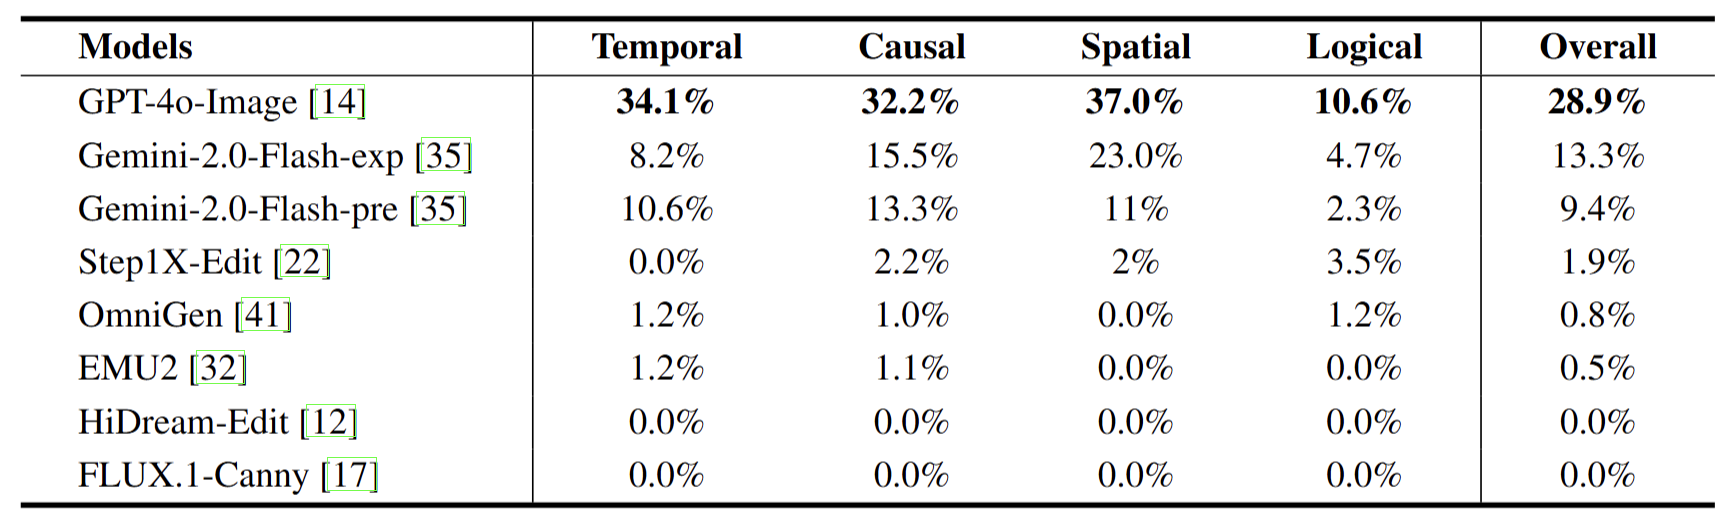
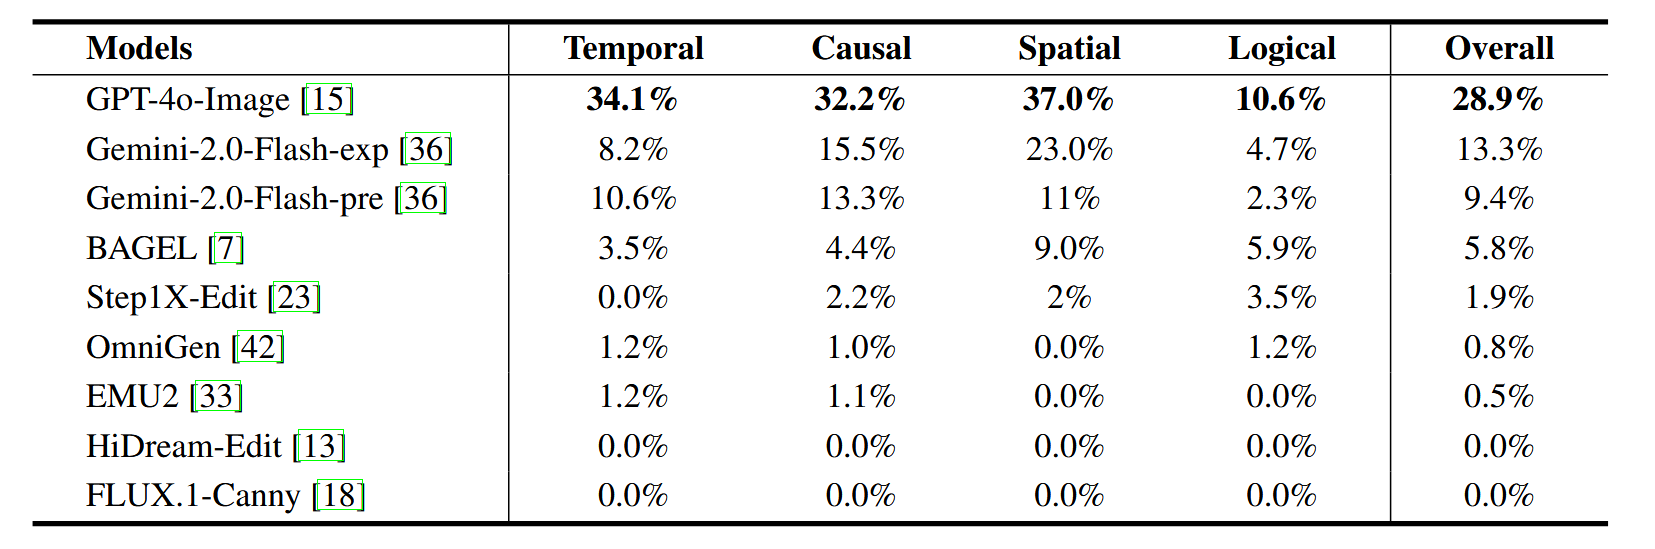
modify readme and score metric name

Changed region(s): [[0.0, 0.0305, 1.0, 0.9771], [0.4931, 0.2443, 0.5547, 0.855]]

diff --git a/gpt_eval.py b/gpt_eval.py
@@ -9,9 +9,10 @@ import re
 from utils import *
 
 
-api_key = 'YOUR_API_KEY'
-api_base = 'YOUR_API_BASE'
-
+# api_key = 'YOUR_API_KEY'
+# api_base = 'YOUR_API_BASE'
+api_key = 'sk-xFs6jVvnRZzjmiAx8b2184BfBc2840DaA28944FcAf3d5a82'
+api_base = 'http://172.30.16.79:6260/v1/chat/completions'
 
 subtask_dic = {
     "Temp": [
@@ -288,12 +289,12 @@ def extract(answer):
 def calculate_score(row):
     if row['category'] in ['temporal_reasoning', 'causal_reasoning', 'spatial_reasoning']:
         if 'consistency_free' in row and row['consistency_free']:
-            score = 0.2 * row['GenerationQuality'] + 0.8 * row['Reasoning']
+            score = 0.2 * row['VisualPlausibility'] + 0.8 * row['Reasoning']
         else:
-            score = 0.3 * row['ImageConsistency'] + 0.5 * row['Reasoning'] + 0.2 * row['GenerationQuality']
+            score = 0.3 * row['ApprConsistency'] + 0.5 * row['Reasoning'] + 0.2 * row['VisualPlausibility']
         
     elif row['category'] == 'logical_reasoning':
-        score = 0.3 * row['ImageConsistency'] + 0.7 * row['Reasoning']
+        score = 0.3 * row['ApprConsistency'] + 0.7 * row['Reasoning']
     if row['Reasoning'] == 1:
         score = score * 0.5
         score = 1 if score<1 else score
@@ -303,12 +304,12 @@ def calculate_completion(row):
     if row['category'] in ['temporal_reasoning', 'causal_reasoning', 'spatial_reasoning']:
         return (
             1
-            if row['ImageConsistency'] == 5 and row['Reasoning'] == 5 and row['GenerationQuality'] == 5
+            if row['ApprConsistency'] == 5 and row['Reasoning'] == 5 and row['VisualPlausibility'] == 5
             else 0
         )
     elif row['category']=='logical_reasoning':
         return (
-            1 if row['ImageConsistency'] == 5 and row['Reasoning'] == 5 else 0
+            1 if row['ApprConsistency'] == 5 and row['Reasoning'] == 5 else 0
         )
 
 
@@ -452,8 +453,8 @@ def main():
             match_log.append('failed')
     # breakpoint()
     data['Reasoning'] = reasoning
-    data['ImageConsistency'] = img_consist
-    data['GenerationQuality'] = gen_quality
+    data['ApprConsistency'] = img_consist
+    data['VisualPlausibility'] = gen_quality
     data['match_log'] = match_log
     # data['judge'] = judge_combine
     data['judge_cons'] = judge_cons
@@ -480,13 +481,13 @@ def main():
     logical_final, logical_comp_rate = df_logical['score'].mean(), df_logical['complete'].mean()
 
     reasoning_average = data['Reasoning'].mean()
-    img_consist_average = data['ImageConsistency'].mean()
-    generation_quality = data['GenerationQuality'].mean()
+    img_consist_average = data['ApprConsistency'].mean()
+    generation_quality = data['VisualPlausibility'].mean()
 
-    temp_rea_avg, temp_cons_avg, temp_qua_avg = df_temporal['Reasoning'].mean(), df_temporal['ImageConsistency'].mean(), df_temporal['GenerationQuality'].mean()
-    cau_rea_avg, cau_cons_avg, cau_qua_avg = df_causal['Reasoning'].mean(), df_causal['ImageConsistency'].mean(), df_causal['GenerationQuality'].mean()
-    spa_rea_avg, spa_cons_avg, spa_qua_avg = df_spatial['Reasoning'].mean(), df_spatial['ImageConsistency'].mean(), df_spatial['GenerationQuality'].mean()
-    logic_rea_avg, logic_cons_avg, logic_qua_avg = df_logical['Reasoning'].mean(), df_logical['ImageConsistency'].mean(), df_logical['GenerationQuality'].mean()
+    temp_rea_avg, temp_cons_avg, temp_qua_avg = df_temporal['Reasoning'].mean(), df_temporal['ApprConsistency'].mean(), df_temporal['VisualPlausibility'].mean()
+    cau_rea_avg, cau_cons_avg, cau_qua_avg = df_causal['Reasoning'].mean(), df_causal['ApprConsistency'].mean(), df_causal['VisualPlausibility'].mean()
+    spa_rea_avg, spa_cons_avg, spa_qua_avg = df_spatial['Reasoning'].mean(), df_spatial['ApprConsistency'].mean(), df_spatial['VisualPlausibility'].mean()
+    logic_rea_avg, logic_cons_avg, logic_qua_avg = df_logical['Reasoning'].mean(), df_logical['ApprConsistency'].mean(), df_logical['VisualPlausibility'].mean()
 
     def trans_to_percent(s):
         return 25*(s-1)
@@ -516,8 +517,8 @@ def main():
         Spatial=[spatial_final, trans_to_percent(spatial_final), spatial_comp_rate],
         Logical=[logical_final, trans_to_percent(logical_final), logical_comp_rate],
         Overall_Reasoning=[reasoning_average, trans_to_percent(reasoning_average), None],
-        Overall_ImageConsistency=[img_consist_average, trans_to_percent(img_consist_average), None],
-        Overall_GenearationQuality_total=[generation_quality, trans_to_percent(generation_quality), None],
+        Overall_ApprConsistency=[img_consist_average, trans_to_percent(img_consist_average), None],
+        Overall_VisualPlausibility_total=[generation_quality, trans_to_percent(generation_quality), None],
         Temporal_Reasoning = [temp_rea_avg, trans_to_percent(temp_rea_avg), None],
         Temporal_Consistency = [temp_cons_avg, trans_to_percent(temp_cons_avg), None],
         Temporal_Quality = [temp_qua_avg, trans_to_percent(temp_qua_avg), None],

diff --git a/README.md b/README.md
@@ -35,7 +35,7 @@ If you find our work helpful, please consider giving us a ⭐ or citation :blush
 </div>
 
 ## 🎉 News
-- **\[2025/05/19\]** We will update our arxiv paper soon.
+- **\[2025/05/27\]** Our paper has been updated! Please refer to [Arxiv](https://arxiv.org/pdf/2504.02826) for comprehensive details.
 - **\[2025/05/19\]** **RISEBench Final Version(Scaled Up to 360 Samples) has been released!** Please refer to [huggingface](https://huggingface.co/datasets/PhoenixZ/RISEBench) for full data of RISEBench.
 - **\[2025/04/08\]** RISEBench is Scaling Up! The final complete benchmark will be released soon. Stay tuned for updates!
 - **\[2025/04/08\]** The benchmark and evaluation code have been released! Have fun :smiley: .
@@ -64,12 +64,12 @@ Besides, we design a robust **LMM-as-a-Judge** evaluation pipeline and leverage 
 To evaluate the performance of representative visual editing approaches, we selected a diverse set of models spanning multiple model architectures and generation paradigms. Specifically, Flux1.0-Canny serves as a representative diffusion-based editing model, while EMU2 exemplifies the auto-regressive generation paradigm. We also include 8 proprietary models, including **GPT-4o-Image**, **Gemini 2.0-Flash-Experimental**, and **Gemini 2.0-Flash-Preview**. The outputs of proprietary models are given by the official API.
 
 <div align="center">
-  <img src="images/results.png" width="100%">
+  <img src="images/results.png" width="90%">
 </div>
 
 
 <div align="center">
-  <img src="images/metric_score.png" width="80%">
+  <img src="images/metric_score2.png" width="90%">
 </div>
 
 
